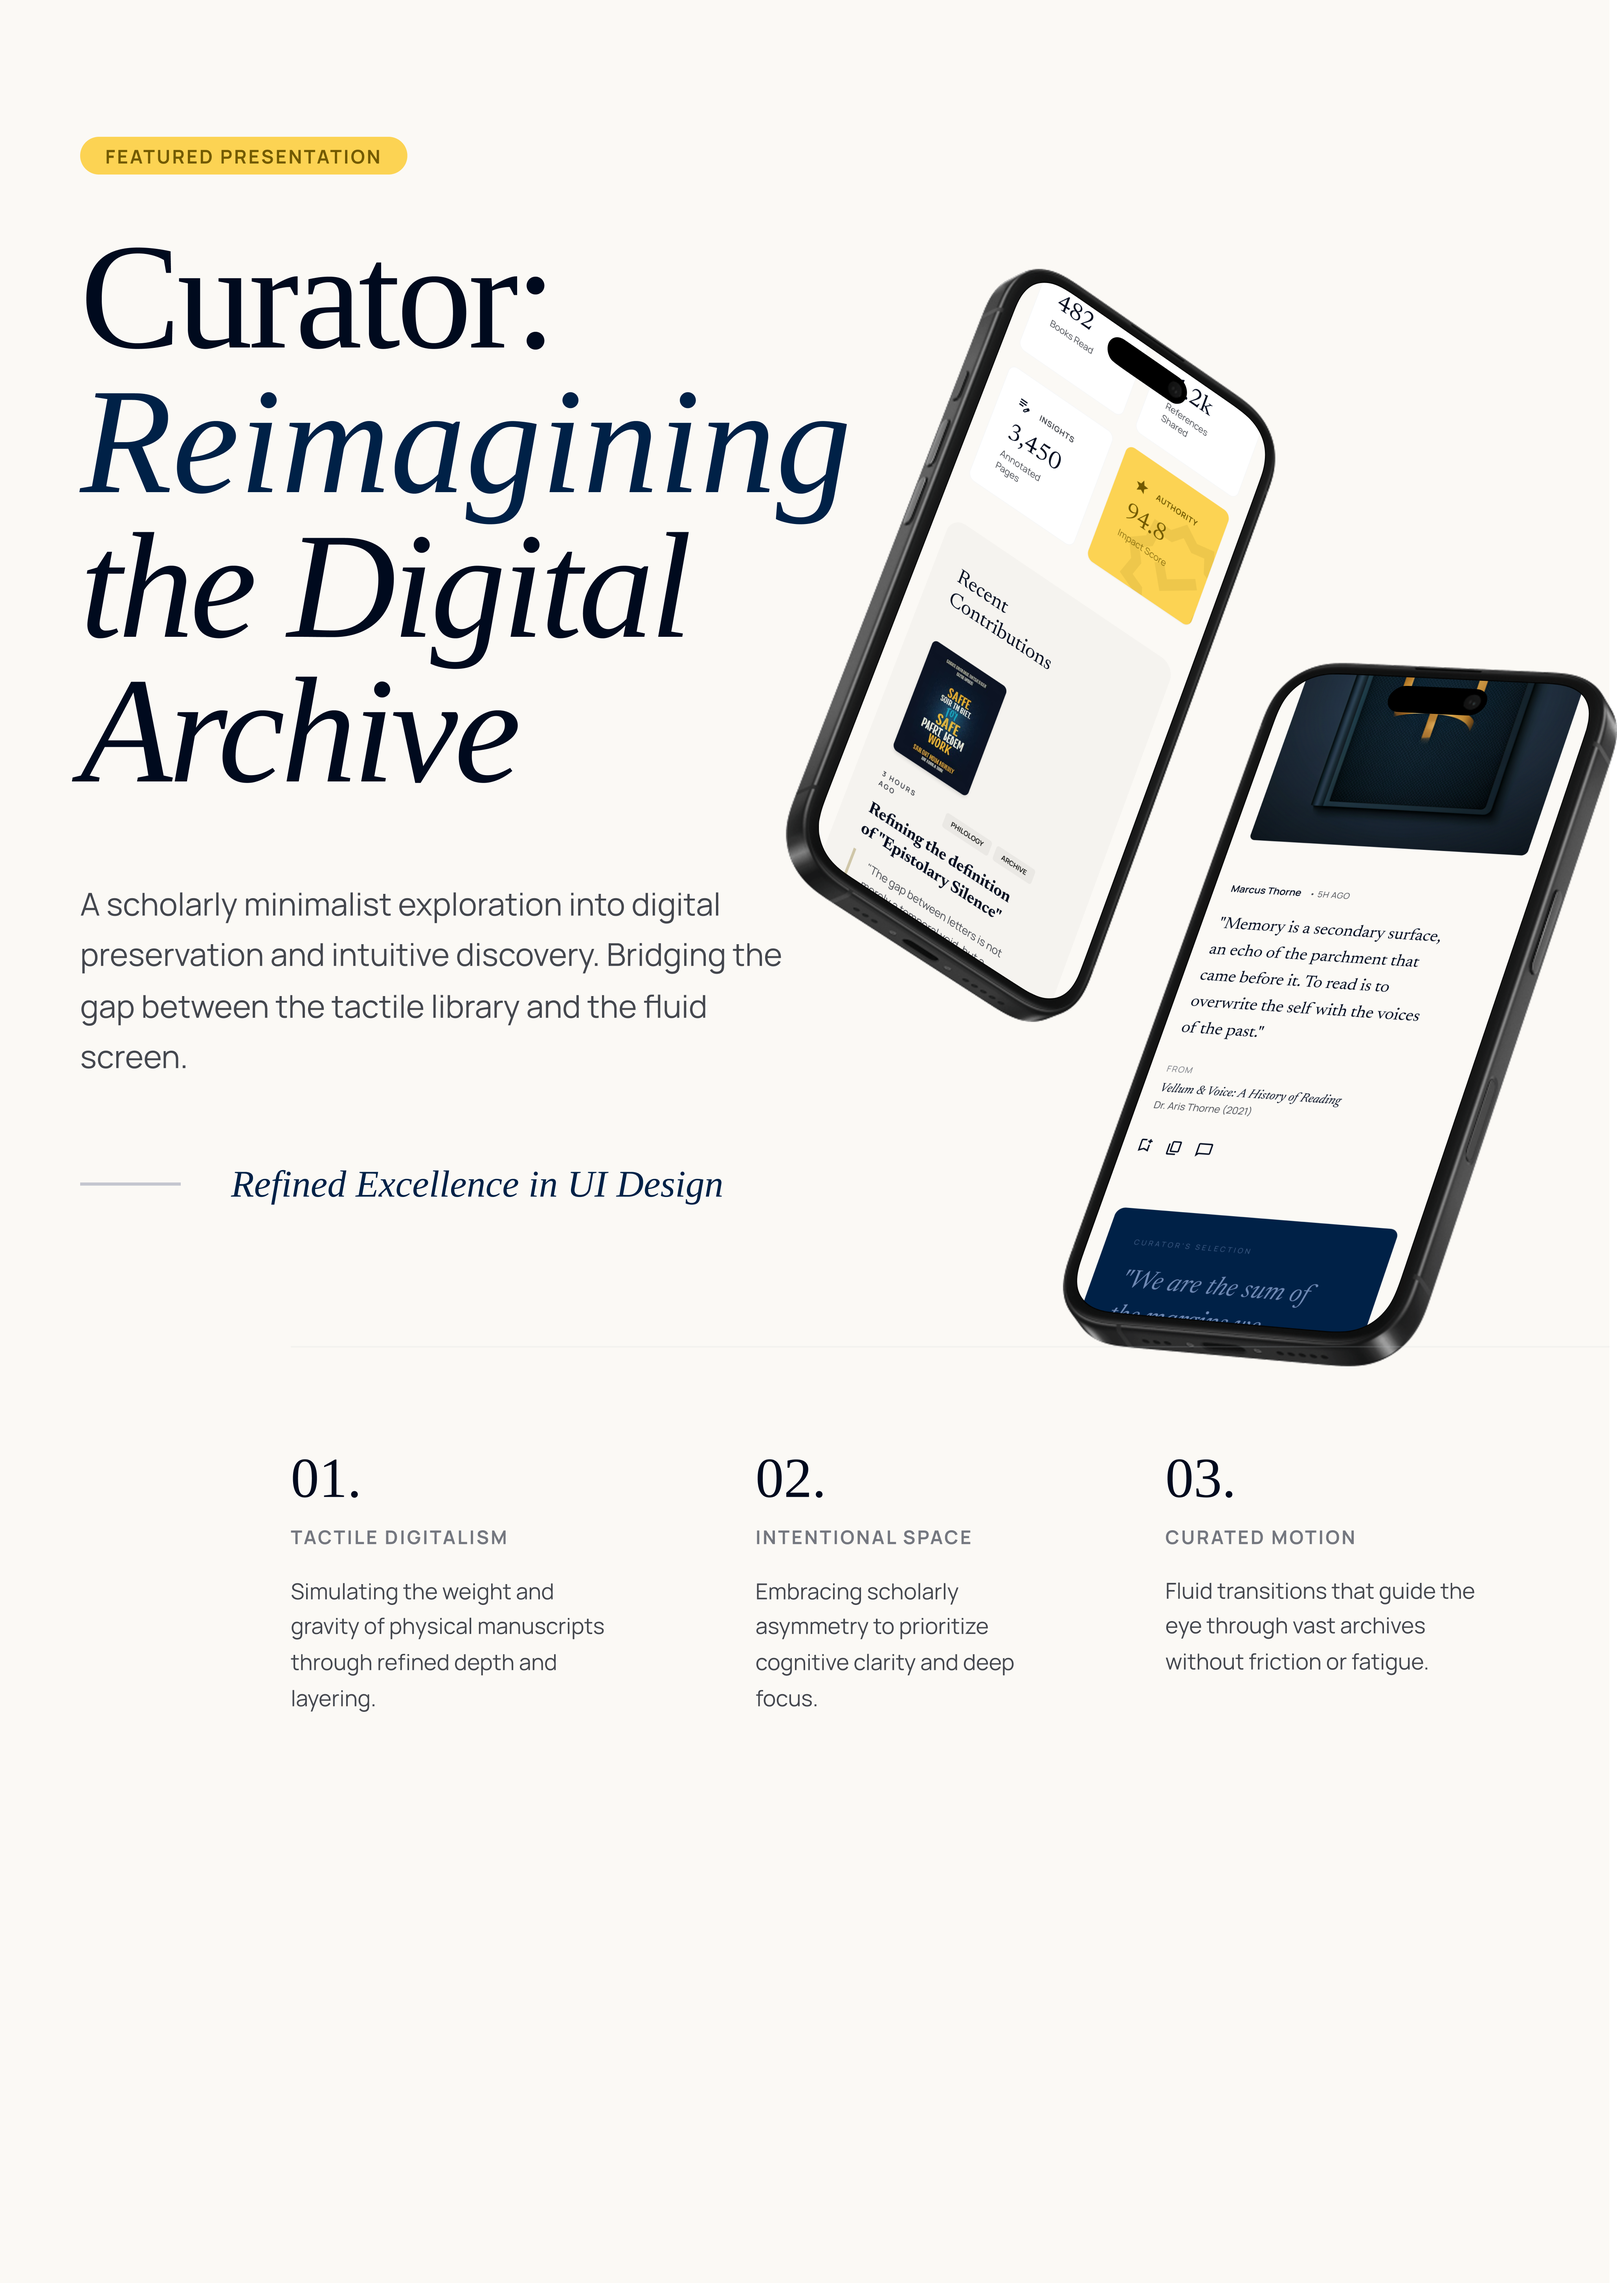
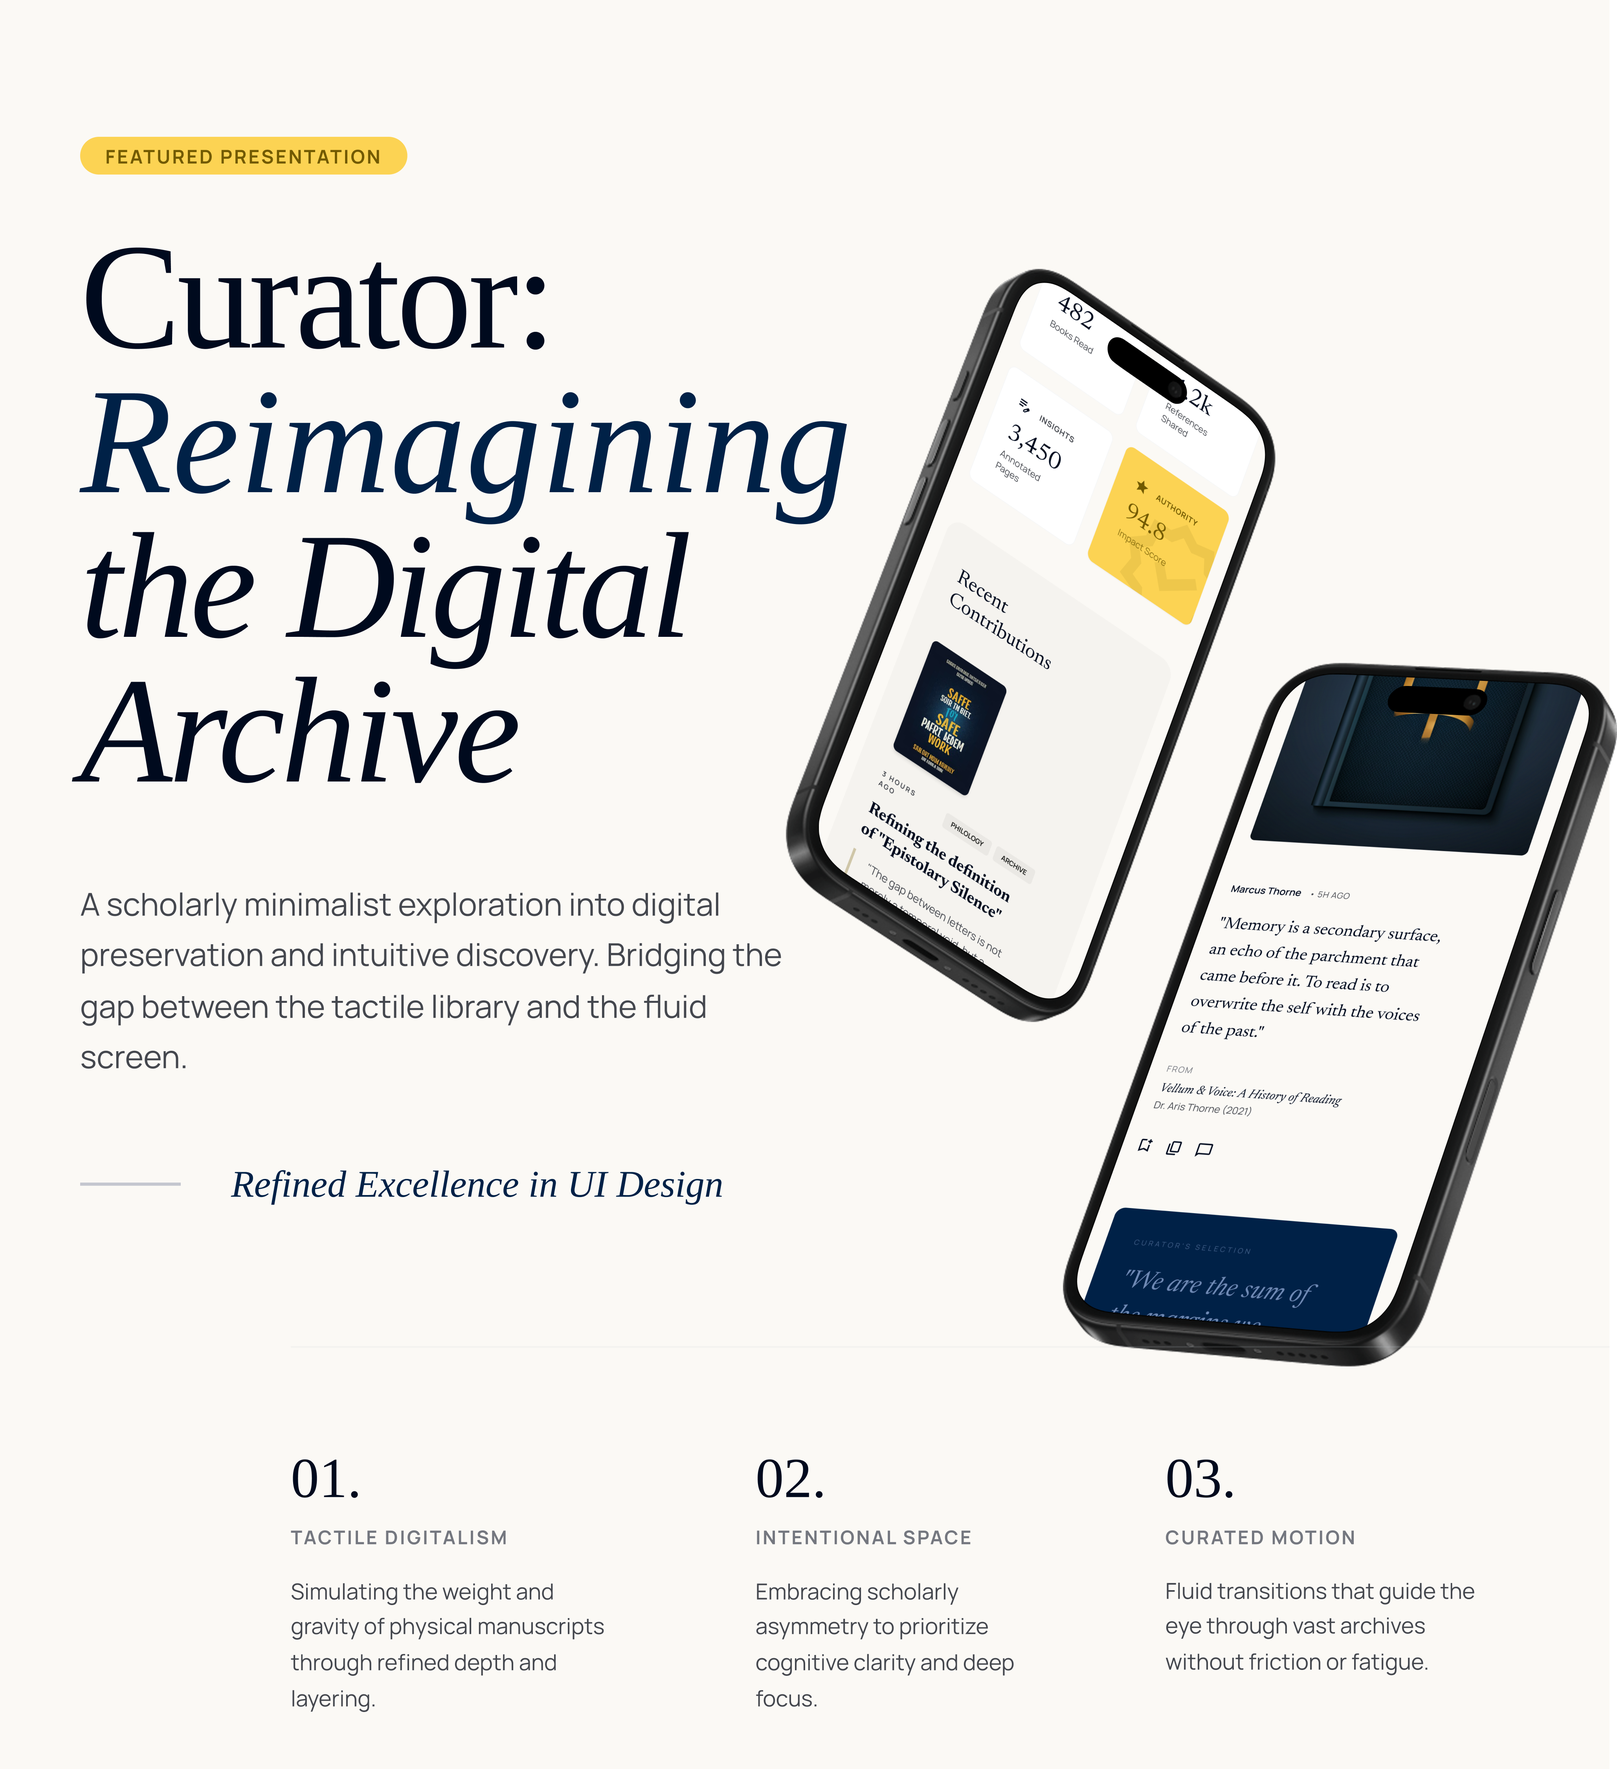
Display full uncropped project cover images across desktop and mobile

diff --git a/src/style.css b/src/style.css
@@ -714,26 +714,25 @@ body.cursor-hover .cursor-follower {
   position: relative;
   border-radius: var(--radius-lg);
   overflow: hidden;
-  aspect-ratio: 4 / 3;
-  background: var(--bg-secondary);
+  width: 100%;
+  background: var(--bg-primary);
+  border: 1px solid rgba(14, 14, 14, 0.14);
 }
 
 .project-image {
   width: 100%;
-  height: 100%;
-  object-fit: cover;
-  transition: transform 0.8s var(--ease-out-expo);
+  height: auto;
+  display: block;
+  object-fit: contain;
+  transition: transform 0.6s var(--ease-out-expo);
 }
 
 .project-card:hover .project-image {
-  transform: scale(1.05);
+  transform: scale(1.015);
 }
 
 .project-image-overlay {
-  position: absolute;
-  inset: 0;
-  background: linear-gradient(180deg, transparent 50%, rgba(9, 9, 11, 0.4) 100%);
-  pointer-events: none;
+  display: none;
 }
 
 .project-number {
@@ -2572,9 +2571,16 @@ body.cursor-hover .cursor-follower {
     right: 12px;
   }
 
-  /* Project image: full width */
+  /* Project image: full width, uncropped on mobile */
   .project-image-wrapper {
     border-radius: var(--radius-md);
+    width: 100%;
+  }
+
+  .project-image {
+    width: 100%;
+    height: auto;
+    object-fit: contain;
   }
 
   .project-title {
